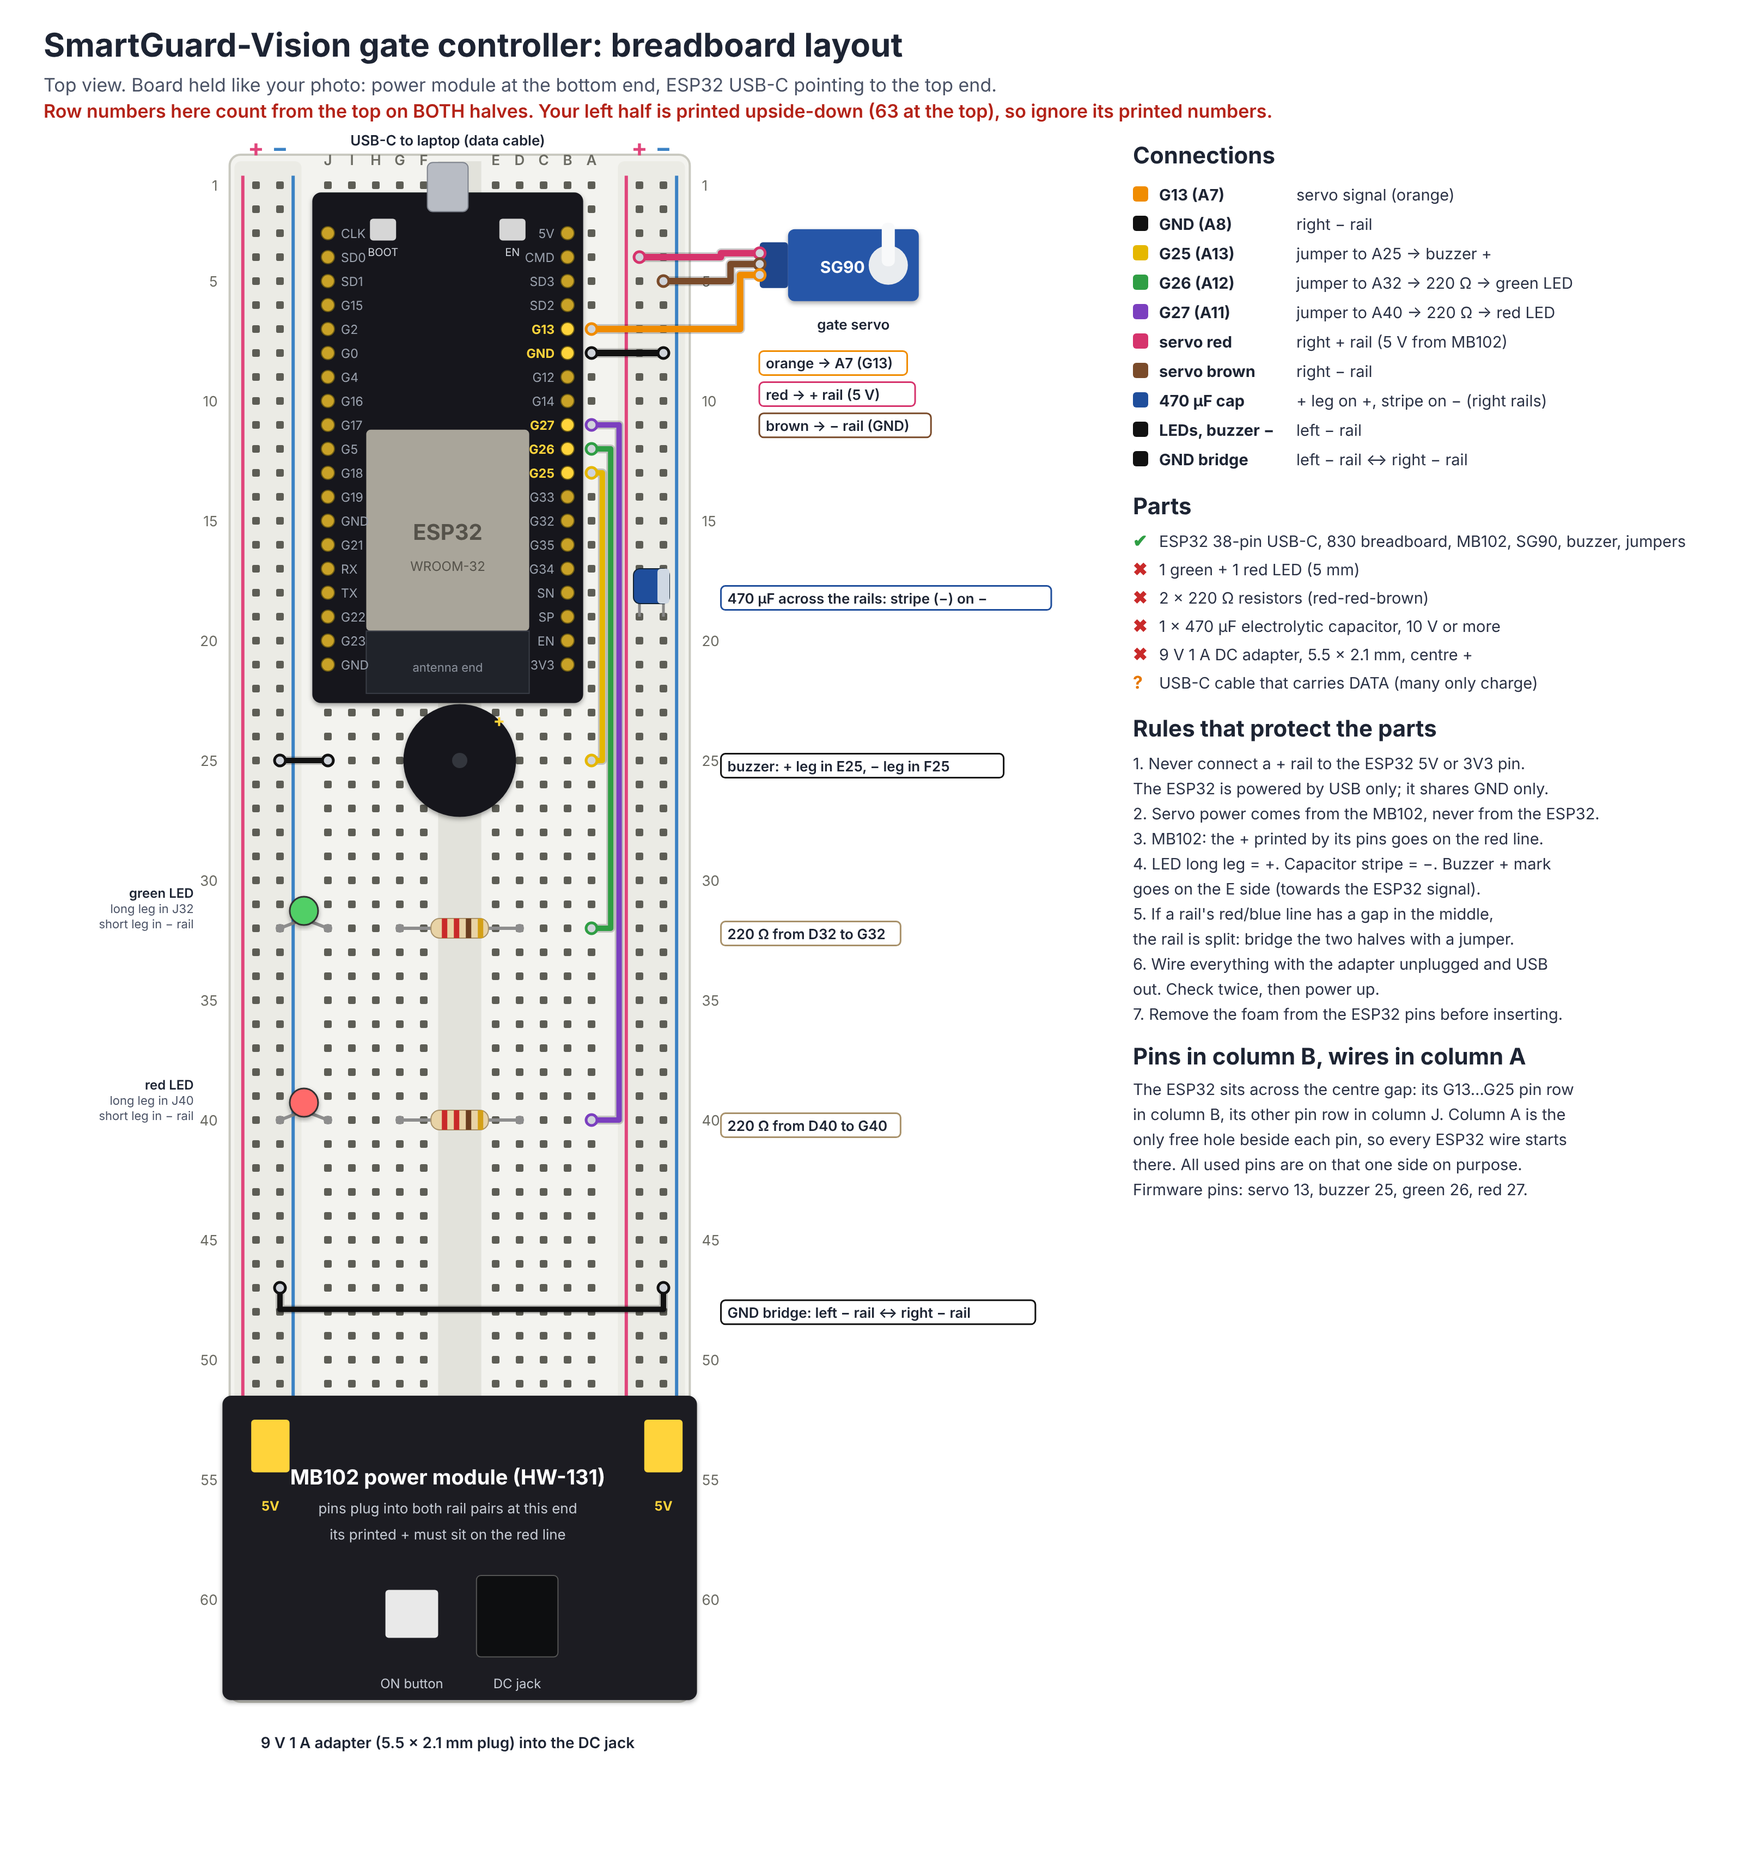
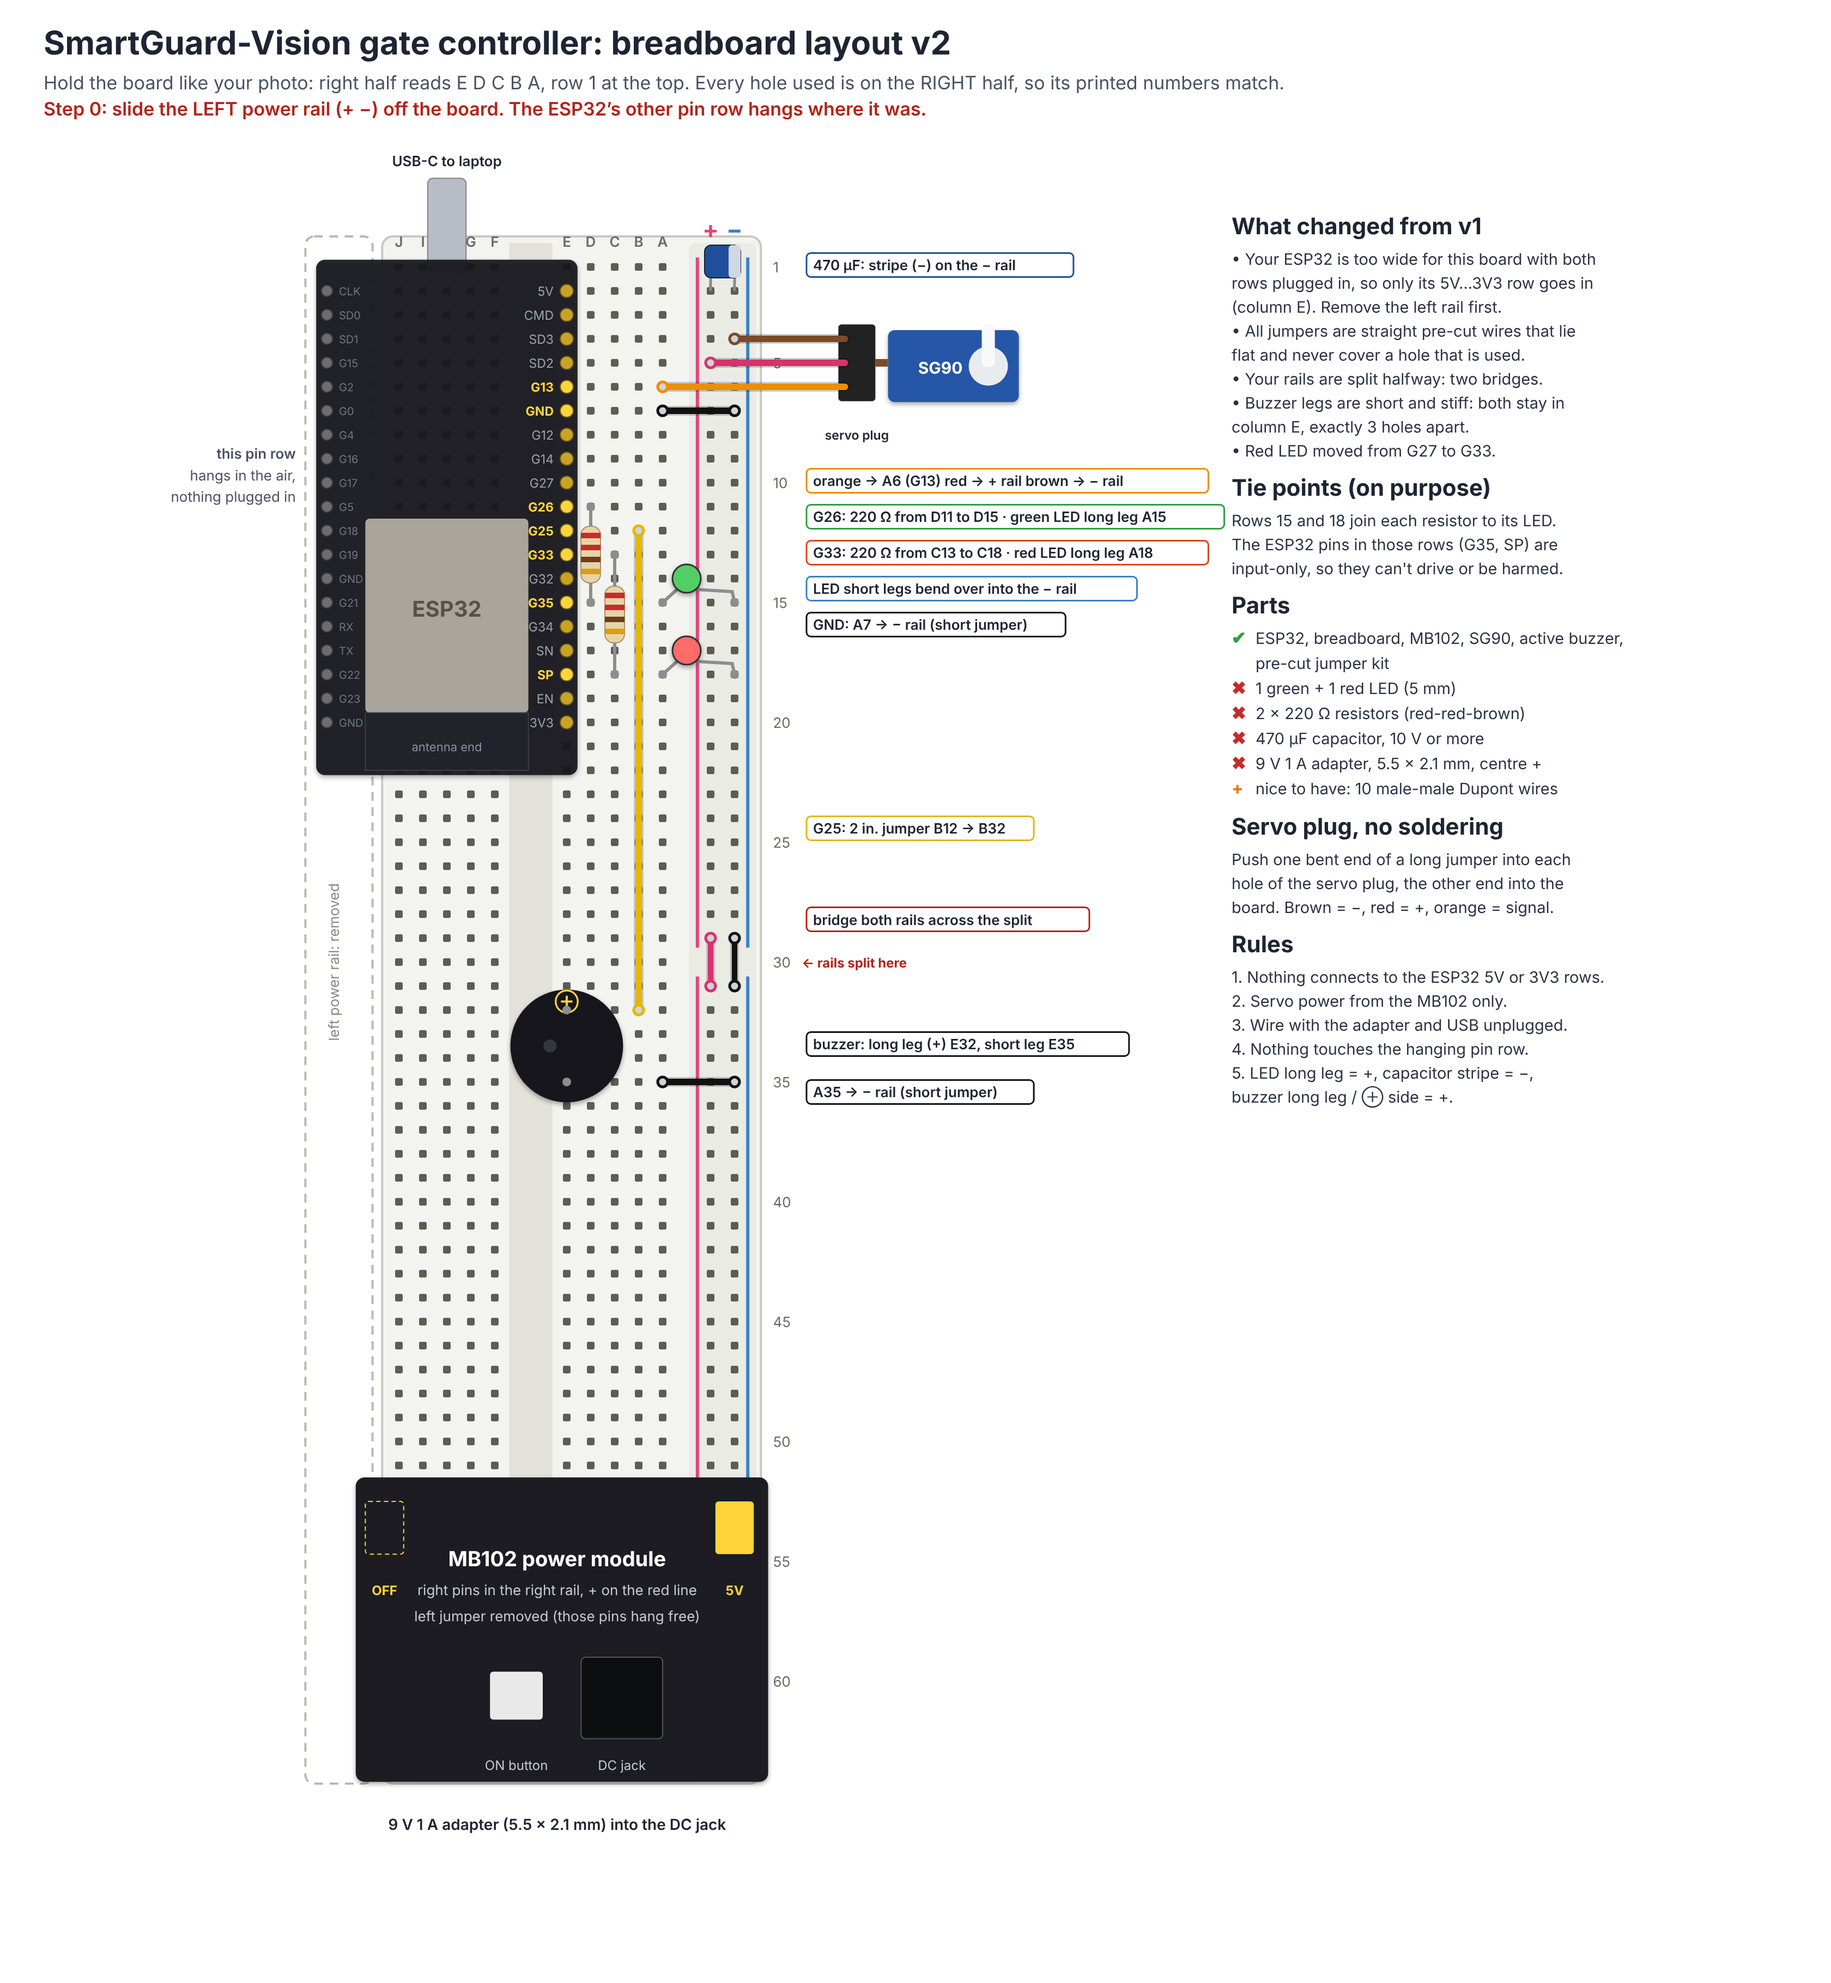
hardware config

Changed region(s): [[0.0312, 0.0, 0.9062, 0.9331]]

diff --git a/docs/HARDWARE.md b/docs/HARDWARE.md
@@ -1,62 +1,81 @@
-# SmartGuard-Vision: gate hardware (V3 bench build)
+# SmartGuard-Vision: gate hardware (V3 bench build, layout v2)
 
 Drawing: `docs/hardware_assembly.png`. Firmware: `firmware/smartguard_esp32/smartguard_esp32.ino` (v1.1.0).
+No soldering: breadboard, pre-cut jumper wires and component legs only.
 
 ## Parts
 
 | Have | Part |
 |---|---|
-| yes | ESP32 38-pin DevKit, USB-C (ESP32-WROOM-32) |
-| yes | 830-hole breadboard, MB102 power module (HW-131), SG90 servo, buzzer, jumper wire kit |
+| yes | ESP32 38-pin DevKit, USB-C, CP2102 USB chip (ESP32-WROOM-32) |
+| yes | 830-hole breadboard (rails split halfway), MB102 power module (HW-131), SG90 servo |
+| yes | active buzzer (sealed bottom, ⊕ mark, one longer leg), pre-cut jumper wire kit |
 | buy | 1 green LED and 1 red LED (5 mm) |
 | buy | 2 x 220 ohm resistors (bands red-red-brown) |
-| buy | 1 x 470 uF electrolytic capacitor, 10 V or higher (steadies the 5 V rail when the servo starts) |
+| buy | 1 x 470 uF electrolytic capacitor, 10 V or higher |
 | buy | 9 V 1 A DC adapter, 5.5 x 2.1 mm plug, centre positive (powers the MB102) |
+| nice to have | 10 male-to-male Dupont wires (easier servo connection) |
 | check | a USB-C cable that carries data (charge-only cables give no COM port) |
 
-## Pin map
+## Why the layout looks like this
 
-| ESP32 pin | Breadboard hole | Goes to |
+- The 38-pin ESP32 is too wide for one breadboard with both pin rows plugged in: no free holes would be left.
+  So **only one pin row (5V ... 3V3) goes into column E**, and the other row hangs off the left edge.
+  That is why the **left power rail is removed** first: otherwise the hanging pins would land in it and short together.
+- Every hole used is on the **right half** (columns E D C B A, row 1 at the top), whose printed numbers count from the top.
+- The pre-cut jumpers are rigid and lie flat, so each one runs in a straight line and never covers a hole that is used.
+- The rails are **split halfway** (gap in the red and blue lines near row 30): two short jumpers bridge them.
+- The buzzer legs are short and stiff (0.3 in apart), so both legs go in column E, three holes apart.
+- Rows 15 and 18 join each resistor to its LED. The ESP32 pins in those rows (G35 and SP/GPIO36) are input-only,
+  so the LED voltage there is harmless. Never use GPIO35 or GPIO36 for anything else.
+
+## Wiring list (right half; "- rail" = right blue rail, "+ rail" = right red rail)
+
+| What | From | To |
 |---|---|---|
-| G13 | A7 | servo signal (orange wire) |
-| GND | A8 | right - rail |
-| G27 | A11 | jumper to A40, 220 ohm D40-G40, red LED (long leg J40, short leg in left - rail) |
-| G26 | A12 | jumper to A32, 220 ohm D32-G32, green LED (long leg J32, short leg in left - rail) |
-| G25 | A13 | jumper to A25, buzzer + in E25, buzzer - in F25, jumper J25 to left - rail |
-| - | rails | servo red to right + rail, servo brown to right - rail, 470 uF across the right rails (stripe on -), jumper between left - and right - rails |
+| ESP32 pin row 5V ... 3V3 | | column E, rows 2 to 20 (5V in E2, 3V3 in E20); other row hangs free |
+| ESP32 GND | A7 | - rail (short jumper) |
+| Servo signal (orange) | servo plug | A6 (G13) |
+| Servo + (red) | servo plug | + rail, top half |
+| Servo - (brown) | servo plug | - rail, top half |
+| Green LED (G26) | 220 ohm D11 to D15 | LED long leg A15, short leg bent into the - rail |
+| Red LED (G33) | 220 ohm C13 to C18 | LED long leg A18, short leg bent into the - rail |
+| Buzzer (G25) | 2 in. jumper B12 to B32 | buzzer long leg (+) E32, short leg (-) E35; jumper A35 to - rail |
+| 470 uF capacitor | + leg in + rail, stripe leg in - rail | top half, near the servo |
+| Rail bridges | + rail above the gap to + rail below; same for the - rail | |
+| MB102 | bottom end, right pins in the right rail (+ on the red line) | right jumper 5V, left jumper removed |
 
-The ESP32 straddles the centre gap with its G13...G25 pin row in column B and its other pin row in column J.
-Column A is the only free hole next to each pin, so every ESP32 wire starts there.
-Row numbers count from the top end on both halves (the left half of this board is printed upside-down).
+Servo plug without soldering: push one bent end of a long jumper into each hole of the servo plug,
+the other end into the breadboard. (Male-to-male Dupont wires do this more neatly.)
 
 ## Rules
 
-1. The ESP32 is powered by USB only. Never connect a + rail to its 5V or 3V3 pin. It shares GND only.
-2. The servo is powered by the MB102 5 V rail, never by the ESP32 (a servo start can reset the ESP32: `reset=BROWNOUT`).
-3. Before plugging in the MB102, turn it so the + printed next to its pins sits on the red line. Set the right-side jumper to 5V.
-4. If a rail's red or blue line has a gap in the middle, the rail is split: bridge the two halves with a short jumper.
-5. Wire with the adapter unplugged and the USB cable out. Check, then power up.
-6. Use the DC jack on the MB102 as its input. Its regulator gets warm when the servo moves; that is normal for short moves.
+1. Nothing connects to the ESP32 5V (E2) or 3V3 (E20) rows. The ESP32 is powered by USB; it shares GND only.
+2. The servo is powered by the MB102, never by the ESP32 (a servo start can reset the ESP32: `reset=BROWNOUT`).
+3. Remove the MB102 left jumper: its left pins hang over the edge and must not carry power.
+4. Wire with the adapter unplugged and the USB cable out. Check, then power up.
+5. LED long leg = +. Capacitor stripe = -. Buzzer long leg / ⊕ side = +.
+6. If the ESP32 tilts because only one row is plugged in, prop the hanging side on something non-conductive (an eraser, folded paper).
 
 ## Build and test in stages
 
-### Stage 1: flash the bare board (nothing wired)
+### Stage 1: flash the bare board (nothing wired, not even on the breadboard)
 
 1. Arduino IDE 2: File > Preferences > Additional boards manager URLs:
    `https://espressif.github.io/arduino-esp32/package_esp32_index.json`
 2. Tools > Board > Boards Manager: install **esp32 by Espressif Systems**, version 3.x.
 3. Tools > Manage Libraries: install **ESP32Servo** by Kevin Harrington.
-4. Plug the ESP32 in. Windows Device Manager > Ports should show a COM port (for example "Silicon Labs CP210x" or "USB-SERIAL CH340").
-   No port: try another cable, or install the CP210x driver (Silicon Labs) or the CH340 driver (WCH).
+4. Plug the ESP32 in. Device Manager > Ports should show **Silicon Labs CP210x USB to UART Bridge (COMx)**.
+   No port: try another cable, or install the CP210x driver from Silicon Labs.
 5. Open `firmware/smartguard_esp32/smartguard_esp32.ino`. Tools > Board: **ESP32 Dev Module**. Tools > Port: that COM port. Upload.
    If it says `Failed to connect ... Wrong boot mode`, hold the **BOOT** button while it shows `Connecting....`, release when writing starts.
-6. Tools > Serial Monitor, 115200 baud, line ending **Newline**. Press **EN** on the board: you should see
+6. Tools > Serial Monitor, 115200 baud, line ending **Newline**. Press **RST/EN**: you should see
    `READY SMARTGUARD fw=1.1.0 reset=...`. Type `PING`: it answers `PONG`. Type `STATUS`.
 7. Close the Serial Monitor (only one program can use the port).
 
-### Stage 2: LEDs and buzzer (USB power only)
+### Stage 2: ESP32, LEDs and buzzer (USB power only, no MB102 yet)
 
-Wire the LEDs, resistors, buzzer, the A8 GND wire and the GND bridge. Then:
+Remove the left rail. Plug the ESP32 row into column E, add A7 to - rail, the resistors, LEDs, buzzer jumpers, and the rail bridges.
 
 ```powershell
 cd C:\Users\3rdre\SmartGuard
@@ -64,29 +83,24 @@ cd C:\Users\3rdre\SmartGuard
 python tools\hw_test.py
 ```
 
-Choose `1` (TEST): green LED, red LED, a beep. If the buzzer only clicks, it is a passive buzzer:
+Choose `1` (TEST): green LED, red LED, a beep. If the buzzer only clicks, it is passive after all:
 set `BUZZER_PASSIVE = true` in the firmware and upload again.
 
 ### Stage 3: servo and power module
 
-Unplug USB. Put the MB102 on the bottom end (right jumper on 5V), add the 470 uF capacitor and the servo wires.
-Plug in the 9 V adapter, press the MB102 button (its LED lights), plug USB back in, run `python tools\hw_test.py` and choose `1` again:
+Unplug USB. Put the MB102 on the bottom end (right jumper on 5V, left jumper removed), add the capacitor and the servo wires.
+Plug in the 9 V adapter, press the MB102 button (its LED lights), plug USB back in, run `python tools\hw_test.py`, choose `1`:
 the gate should open and close. If the arm moves the wrong way or too far, change `SERVO_CLOSED_DEG` / `SERVO_OPEN_DEG` and upload again.
 
 ### Stage 4: with the app
 
-Close `hw_test.py`. In a new terminal (so `SG_HARDWARE` is not still set to 0):
-
-```powershell
-python main.py
-```
-
-The status bar should say `Gate hardware: connected`. The app finds the board by itself (`SERIAL_PORT = "AUTO"` in `core/config.py`).
+Close `hw_test.py`. In a new terminal (so `SG_HARDWARE` is not still 0): `python main.py`.
+The status bar should say `Gate hardware: connected`. The app finds the board by itself (`SERIAL_PORT = "AUTO"`).
 To force a port: `$env:SG_SERIAL_PORT="COM5"` before `python main.py`.
-Unplug the USB cable while the app runs: the firmware closes the gate within 10 s, and the app reconnects when you plug it back.
 
 ## Firmware behaviour
 
+- Pins: servo GPIO13, buzzer GPIO25, green LED GPIO26, red LED GPIO33.
 - Gate closed and everything off at boot, on `SAFE`, and when the app has been silent for 10 s.
 - Non-blocking (millis timers); a task watchdog resets the chip if `loop()` ever hangs, and a reset closes the gate.
 - `READY ... reset=<reason>` tells you why the board last restarted (`BROWNOUT` = power problem, `TASK_WDT` = firmware hang).
